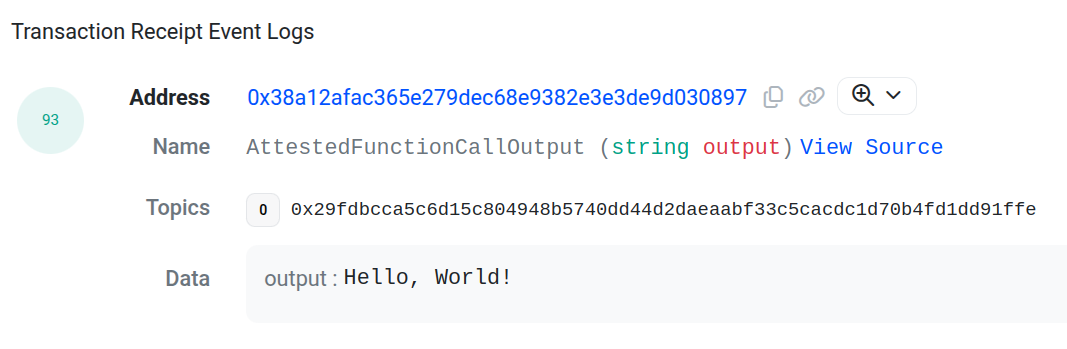
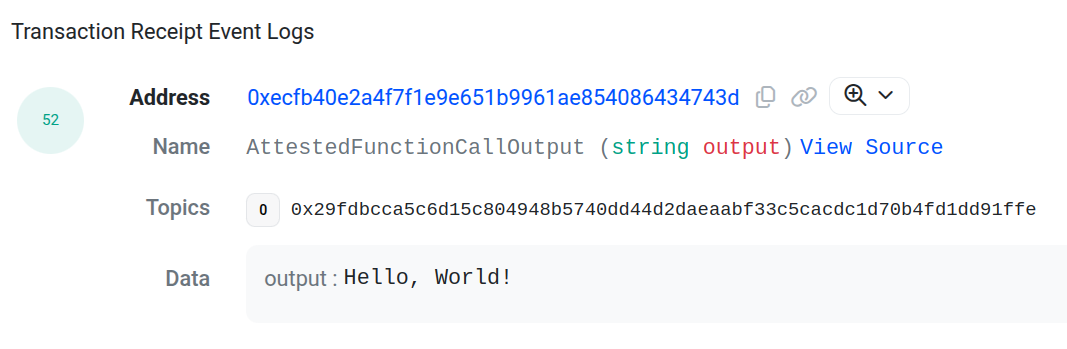
Redeploy and update links

Changed region(s): [[0.2474, 0.2292, 0.866, 0.3152], [0.0309, 0.3152, 0.0619, 0.3725]]

diff --git a/hello_world_on_chain/README.md b/hello_world_on_chain/README.md
@@ -208,6 +208,13 @@ event with `"Hello, World!"` as input.
 
 ### Step 4: Deploy the Smart Contract to Base Sepolia
 
+> Note that this step is optional in this tutorial. You can skip to 
+> [Step 5](#step-5-test-the-user-contract-on-base-sepolia) to test the
+> [`User.sol`](contracts/User.sol) contract on Base Sepolia using
+> deployed contract address in the 
+> [`.user_deployed_address`](.user_deployed_address) 
+> file.
+
 You can also deploy the [`User.sol`](contracts/User.sol) contract to Base
 Sepolia. To do so, we need to do a bit more setup:
 
@@ -229,11 +236,11 @@ Notice the output of the command similar to:
 
 ```
 Successfully verified contract User on the block explorer.
-https://sepolia.basescan.org/address/0x38a12afaC365E279dec68E9382E3E3dE9D030897#code
+https://sepolia.basescan.org/address/0xEcfB40e2A4F7F1E9E651b9961aE854086434743D#code
 ```
 
 which includes a link to the 
-[deployed `User` contract on Basescan](https://sepolia.basescan.org/address/0x38a12afaC365E279dec68E9382E3E3dE9D030897).
+[deployed `User` contract on Basescan](https://sepolia.basescan.org/address/0xEcfB40e2A4F7F1E9E651b9961aE854086434743D).
 
 ### Step 5: Test the `User` contract on Base Sepolia
 
@@ -255,7 +262,7 @@ You will see the test output similar to:
 which show that the [`User.sol`](contracts/User.sol) contract was able to
 verify the TA in just over 2 seconds.
 If you go to Basescan to see 
-[contract transaction logs](https://sepolia.basescan.org/tx/0x85d8de2861f75de56f6515174e6e6f3d2bd593f593a857a9cd67df9e296980d2#eventlog)
+[contract transaction logs](https://sepolia.basescan.org/tx/0x87206998d4c09c280778868a7f4c7dbf591f1ede8390d20f21fd3e0a850919cc#eventlog)
 you can see that the `verifyAttestedFnCallClaims` emitted the
 `AttestedFunctionCallOutput` event containing the expected `"Hello, World!"` 
 WASM function output.
